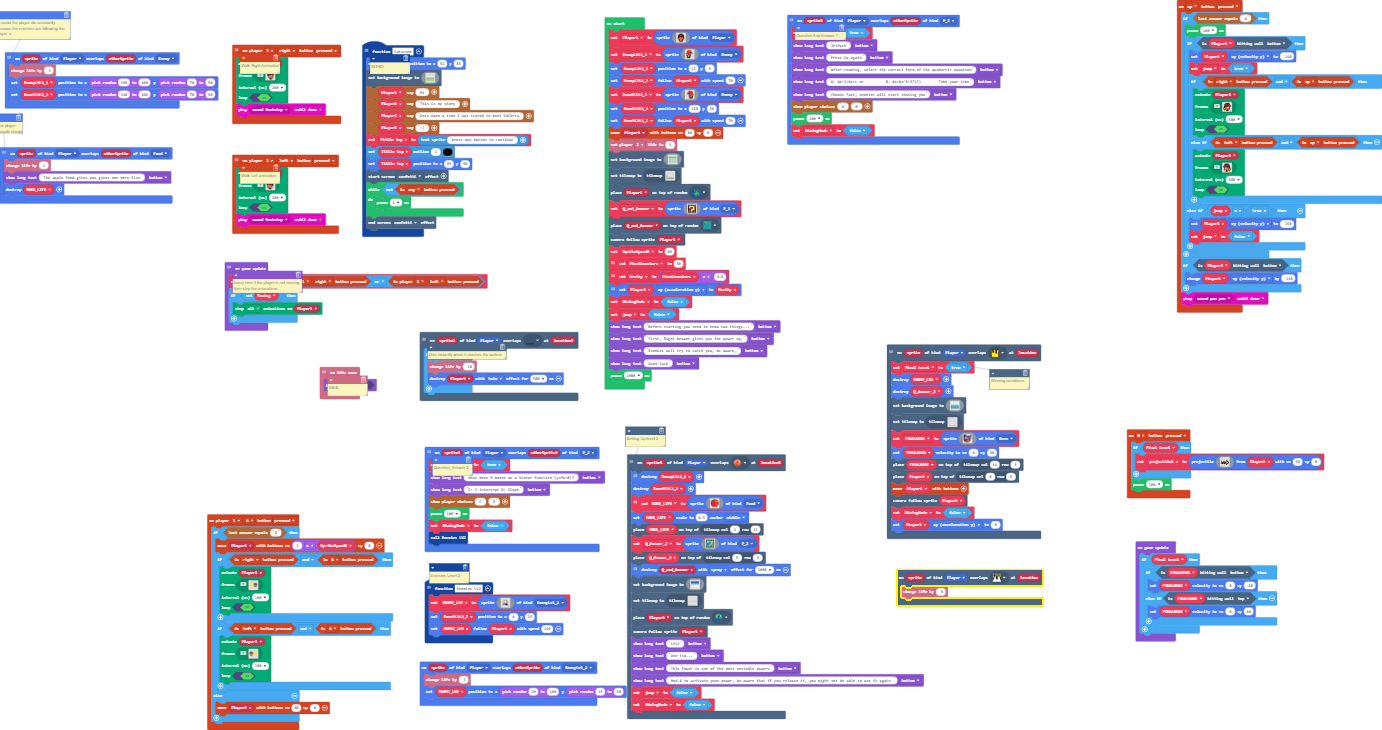
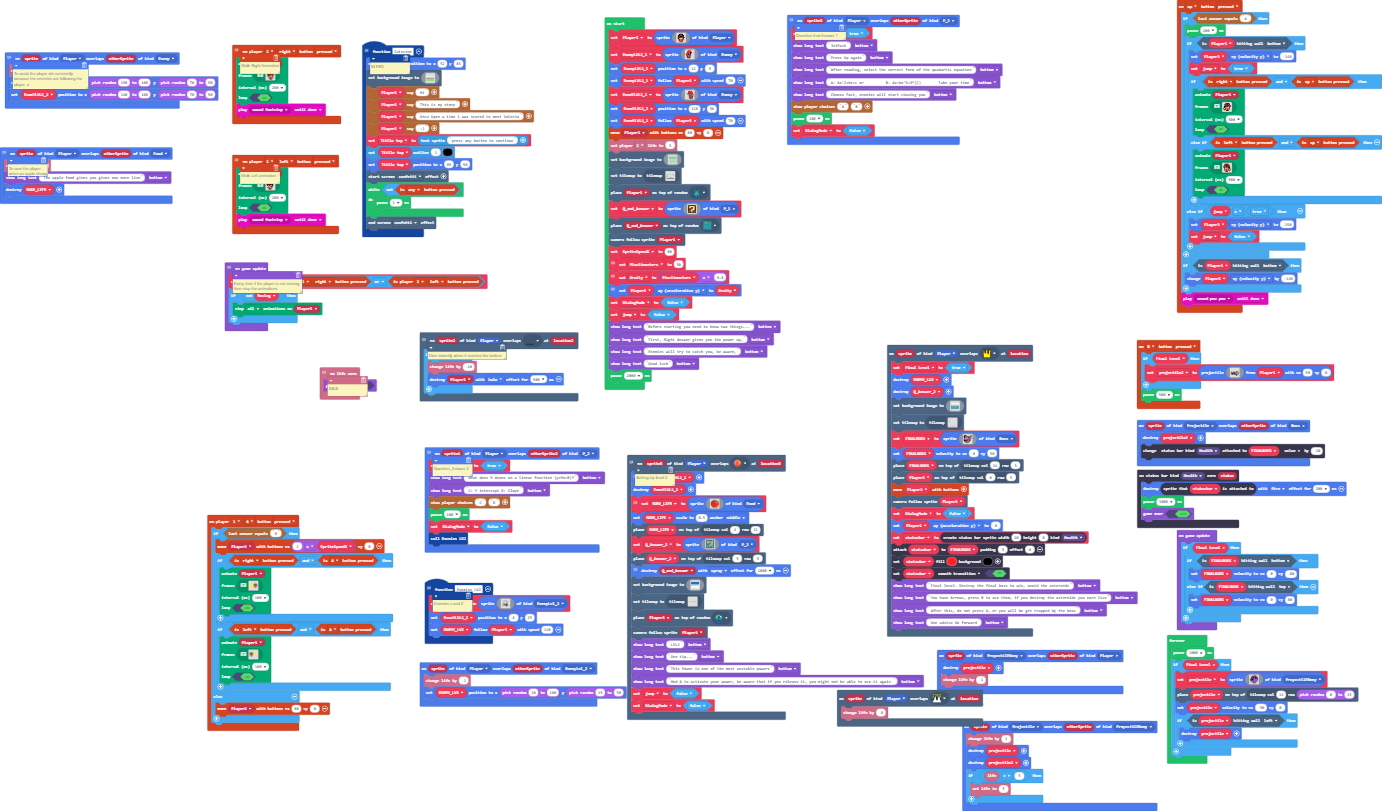
Update pxt.json, main.blocks, main.ts, tilemap.g.jres, tilemap.g.ts

diff --git a/tilemap.g.ts b/tilemap.g.ts
@@ -165,25 +165,6 @@ namespace myTiles {
 . . . . . . . . . . . . . . . . 
 . . . . . . . . . . . . . . . . 
 `, [myTiles.transparency16], TileScale.Sixteen);
-            case "level10":
[1 lines of base64/hex data omitted]
-..............................................................................................................
-..............................................................................................................
-..............................................................................................................
-..............................................................................................................
-..............................................................................................................
-................................................................................................2.............
-................................................................................................2.............
-................................................................................................2.............
-...........................................................................................222222.........2222
-........................................................................................2..............222....
-................2222222222222........................2222222222..................22222222.222222222222........
-...........................................222222222...................222222222..............................
-2222222222222222..............222222222222......................2222222222222222..............................
-..............................................................................................................
-..............................................................................................................
-..............................................................................................................
-`, [myTiles.transparency16,myTiles.tile3,sprites.dungeon.collectibleBlueCrystal,sprites.dungeon.collectibleInsignia,sprites.dungeon.floorLight0,myTiles.tile2], TileScale.Sixteen);
             case "level11":
             case "level11":return tiles.createTilemap(hex`1000100000000000000000000000000000000000000000000000000000000000000000000000000000000000000000000000000000000000000000000000000000000000000000000000000000000000000000000000000000000000000000000000000000000000000000000000000000000000000000000000000000000000000000000000000000000000000000000000000000000000000000000000000000000000000000000000000000000000000000000000000000000000000000000000000000000000000000000000000000000000000000000000000000000000000000000000000000000000000000000000000000000000000000000000000000000000`, img`
 . . . . . . . . . . . . . . . . 
@@ -317,25 +298,6 @@ namespace myTiles {
 . . . . . . . . . . . . . . . . 
 . . . . . . . . . . . . . . . . 
 `, [myTiles.transparency16], TileScale.Sixteen);
-            case "level2":
-            case "level2":return tiles.createTilemap(hex`18001000000000000000000000000000000000000000000000000000000000000000000000000000000000000000000000000000000000000000000000000000000000000000000000000000000000000000000000000000000000000000000000000000000000000000000000000000000000000000000000000005000000000000000000000000000000000000000303030303000000000000000000000000000000000000000000000000000000000400000000000000000000000000000000000000000000000000000000000000000000000000000000000000020000000000000000000000000000000000000000000000030303030303000000000000000000000000000000000000000000000000000000000000000000000000000000000000000000000000000003030303030303030303030000000000000000000000000000000000000000000000000000000000000000000000000000000000000000000000000000000000010101010101010101010101010101010101010101010101`, img`
-........................
-........................
-........................
-........................
-........................
-...................22222
-........................
-........................
-........................
-........................
-222222..................
-........................
-........22222222222.....
-........................
-........................
-........................
-`, [myTiles.transparency16,myTiles.tile3,sprites.swamp.swampTile2,sprites.builtin.forestTiles0,sprites.castle.tileDarkGrass3,sprites.dungeon.collectibleRedCrystal], TileScale.Sixteen);
             case "level16":
             case "level16":return tiles.createTilemap(hex`1000100000000000000000000000000000000000010000000000000000000000000000000000000000000000000000000000000003000000000000000000000000000000010000000000000000000000000000000000000000000000000000000000000000000000000000000000000000000000010100000000000000000000000000000000000000000000000000000000000000000000000000000000000000000000000000000000000000000000000000000000000000000000000000000000000000000000000000000000000000000000000000000000000000000000000000000000000000000000000000000000000002020202020202020202020202020202`, img`
 . . . . . . . . . . . . . . . . 
@@ -355,6 +317,44 @@ namespace myTiles {
 . . . . . . . . . . . . . . . . 
 . . . . . . . . . . . . . . . . 
 `, [myTiles.transparency16,sprites.builtin.oceanSand0,myTiles.tile4,sprites.castle.tileDarkGrass2], TileScale.Sixteen);
+            case "level2":
+            case "level2":return tiles.createTilemap(hex`18001000000000000000000000000000000000000000000000000000000000000000000000000000000000000000000000000000000000000000000000000000000000000000000000000000030303030303000000000303030300000000000000000000000000000000000000000000000000000000000000000005000000000000000000000000000000000000000303030303000000000000000000000000000000000000000000000000000000000400000000000000000000000000000000000000000000000000000000000000000000000000000000000000020000000000000000000000000000000000000000000000030303030303000000000000000000000000000000000000000000000000000000000000000000000000000000000000000000000000000003030303030303030303030000000000000000000000000000000000000000000000000000000000000000000000000000000000000000000000000000000000010101010101010101010101010101010101010101010101`, img`
+........................
+........................
+........................
+222222....2222..........
+........................
+...................22222
+........................
+........................
+........................
+........................
+222222..................
+........................
+........22222222222.....
+........................
+........................
+........................
+`, [myTiles.transparency16,myTiles.tile3,sprites.swamp.swampTile2,sprites.builtin.forestTiles0,sprites.castle.tileDarkGrass3,sprites.dungeon.collectibleRedCrystal], TileScale.Sixteen);
+            case "level10":
[1 lines of base64/hex data omitted]
+..............................................................................................................
+..............................................................................................................
+..............................................................................................................
+..................................................................................22222.......................
+..............................................................................................................
+............................................................................22222...............2.............
+.................................................................................222222222......2.............
+................................................................................................2.............
+...........................................................................................222222.........2222
+........................................................................................2..............222....
+................2222222222222........................2222222222..................22222222.222222222222........
+...........................................222222222...................222222222..............................
+2222222222222222..............222222222222......................2222222222222222..............................
+..............................................................................................................
+..............................................................................................................
+..............................................................................................................
+`, [myTiles.transparency16,myTiles.tile3,sprites.dungeon.collectibleBlueCrystal,sprites.dungeon.collectibleInsignia,sprites.dungeon.floorLight0,myTiles.tile2], TileScale.Sixteen);
         }
         return null;
     })

diff --git a/main.ts b/main.ts
@@ -2,8 +2,9 @@ namespace SpriteKind {
     export const P_1 = SpriteKind.create()
     export const P_2 = SpriteKind.create()
     export const EnemyLvl_2 = SpriteKind.create()
-    export const Boss = SpriteKind.create()
     export const P_3 = SpriteKind.create()
+    export const ProyectilENemy = SpriteKind.create()
+    export const Boss = SpriteKind.create()
 }
 controller.up.onEvent(ControllerButtonEvent.Pressed, function () {
     if (story.checkLastAnswer("A")) {
@@ -193,7 +194,7 @@ controller.B.onEvent(ControllerButtonEvent.Pressed, function () {
             . . . . . . . . . . . . . . . . 
             `, Player1, 50, 0)
     }
-    pause(100)
+    pause(500)
 })
 scene.onOverlapTile(SpriteKind.Player, assets.tile`myTile`, function (sprite, location) {
     info.changeLifeBy(-8)
@@ -377,6 +378,10 @@ scene.onOverlapTile(SpriteKind.Player, sprites.dungeon.collectibleRedCrystal, fu
     jump = false
     DialogMode = false
 })
+sprites.onOverlap(SpriteKind.Projectile, SpriteKind.Boss, function (sprite, otherSprite) {
+    sprites.destroy(projectile2)
+    statusbars.getStatusBarAttachedTo(StatusBarKind.Health, FINALBOSS).value += -10
+})
 // Question And Answer 1
 // 
 sprites.onOverlap(SpriteKind.Player, SpriteKind.P_1, function (sprite3, otherSprite) {
@@ -399,6 +404,14 @@ sprites.onOverlap(SpriteKind.Player, SpriteKind.P_2, function (sprite4, otherSpr
     pause(100)
     DialogMode = false
     Enemies_LV2()
+})
+sprites.onOverlap(SpriteKind.Projectile, SpriteKind.ProyectilENemy, function (sprite, otherSprite) {
+    info.changeLifeBy(1)
+    sprites.destroy(projectile)
+    sprites.destroy(projectile2)
+    if (info.life() > 5) {
+        info.setLife(5)
+    }
 })
 // Enemies Level 2
 // 
@@ -436,7 +449,11 @@ sprites.onOverlap(SpriteKind.Player, SpriteKind.EnemyLvl_2, function (sprite, ot
     info.changeLifeBy(-1)
     ENEMY_LV2.setPosition(randint(20, 160), randint(15, 50))
 })
-// Winning conditions
+statusbars.onZero(StatusBarKind.Health, function (status) {
+    sprites.destroy(statusbar.spriteAttachedTo(), effects.fire, 200)
+    pause(1000)
+    game.gameOver(true)
+})
 scene.onOverlapTile(SpriteKind.Player, assets.tile`tile2`, function (sprite, location) {
     Final_Level = true
     sprites.destroy(ENEMY_LV2)
@@ -589,6 +606,14 @@ scene.onOverlapTile(SpriteKind.Player, assets.tile`tile2`, function (sprite, loc
     scene.cameraFollowSprite(Player1)
     DialogMode = false
     Player1.ay = 0
+    statusbar = statusbars.create(10, 8, StatusBarKind.Health)
+    statusbar.attachToSprite(FINALBOSS, 3, 0)
+    statusbar.setColor(2, 15)
+    statusbar.setStatusBarFlag(StatusBarFlag.SmoothTransition, true)
+    game.showLongText("Final level. Destroy the final boss to win, avoid the asteroids", DialogLayout.Bottom)
+    game.showLongText("You have Arrows, press B to use them, if you destroy the asteroids you earn live", DialogLayout.Bottom)
+    game.showLongText("After this, do not press A, or you will be get trapped by the boss", DialogLayout.Bottom)
+    game.showLongText("One advice Go forward", DialogLayout.Bottom)
 })
 // INTRO
 // 
@@ -1069,10 +1094,16 @@ sprites.onOverlap(SpriteKind.Player, SpriteKind.Enemy, function (sprite, otherSp
     EnemyLVL1_1.setPosition(randint(150, 160), randint(70, 50))
     EnemYLVL1_2.setPosition(randint(140, 160), randint(70, 50))
 })
+sprites.onOverlap(SpriteKind.ProyectilENemy, SpriteKind.Player, function (sprite, otherSprite) {
+    sprites.destroy(projectile)
+    info.changeLifeBy(-1)
+})
 let Moving = false
 let Titlle_top: TextSprite = null
-let FINALBOSS: Sprite = null
+let statusbar: StatusBarSprite = null
 let ENEMY_LV2: Sprite = null
+let projectile: Sprite = null
+let FINALBOSS: Sprite = null
 let Q_Answer_2: Sprite = null
 let MORE_LIFE: Sprite = null
 let projectile2: Sprite = null
@@ -1315,6 +1346,34 @@ game.onUpdate(function () {
             FINALBOSS.setVelocity(0, -80)
         } else if (FINALBOSS.isHittingTile(CollisionDirection.Top)) {
             FINALBOSS.setVelocity(0, 80)
+        }
+    }
+})
+forever(function () {
+    pause(1000)
+    if (Final_Level) {
+        projectile = sprites.create(img`
+            . . . . . . . . c c c c . . . . 
+            . . . . c c c c c c c c c . . . 
+            . . . c f c c a a a a c a c . . 
+            . . c c f f f f a a a c a a c . 
+            . . c c a f f c a a f f f a a c 
+            . . c c a a a a b c f f f a a c 
+            . c c c c a c c b a f c a a c c 
+            c a f f c c c a b b 6 b b b c c 
+            c a f f f f c c c 6 b b b a a c 
+            c a a c f f c a 6 6 b b b a a c 
+            c c b a a a a b 6 b b a b b a . 
+            . c c b b b b b b b a c c b a . 
+            . . c c c b c c c b a a b c . . 
+            . . . . c b a c c b b b c . . . 
+            . . . . c b b a a 6 b c . . . . 
+            . . . . . . b 6 6 c c . . . . . 
+            `, SpriteKind.ProyectilENemy)
+        tiles.placeOnTile(projectile, tiles.getTileLocation(14, randint(0, 15)))
+        projectile.setVelocity(-50, 0)
+        if (projectile.isHittingTile(CollisionDirection.Left)) {
+            sprites.destroy(projectile)
         }
     }
 })
